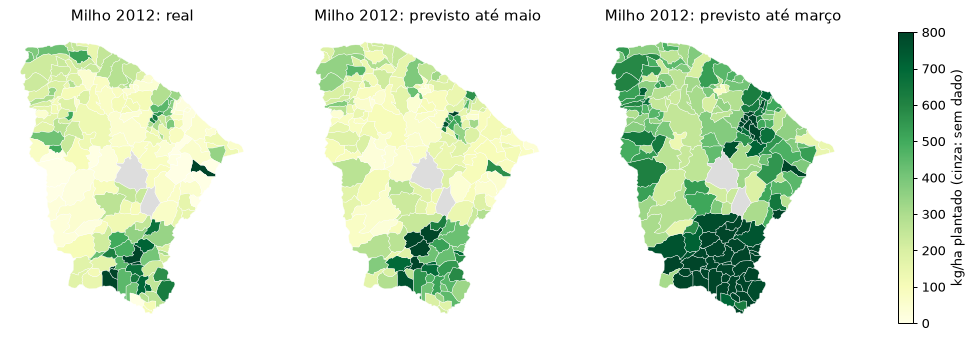
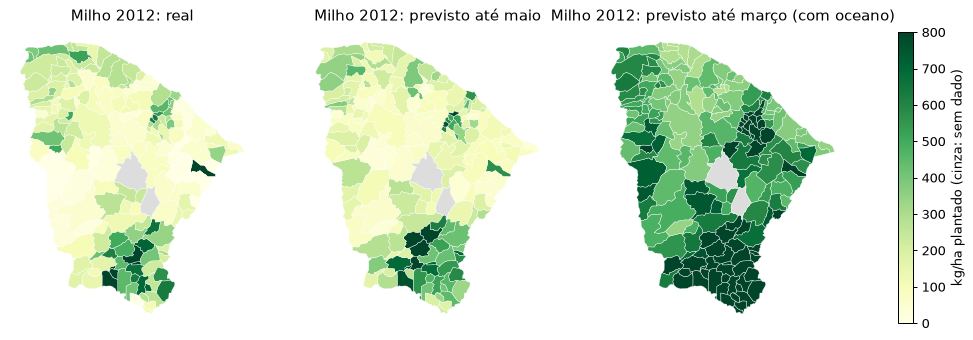
feat(modelo): adiciona indices do oceano e posicao do municipio na previsao ate marco
- ate marco, o erro passa de 1% acima para 3% abaixo da media historica (231 kg/ha) e a precisao ao apontar perda sobe de 51% para 62%
- na quadra completa o oceano nao ajuda (a chuva de abril e maio ja carrega a informacao), entao fica so no cenario de marco
- readme e mapa de 2012 atualizados com o resultado e o limite: correlacao do oceano com o rendimento perto de -0,25

diff --git a/README.md b/README.md
@@ -51,26 +51,32 @@ Erro médio absoluto em kg/ha plantado, 2006–2025:
 |---|---:|---:|---:|
 | Referência: média histórica do município | 121 | 358 | 239 |
 | LightGBM com chuva até março | 125 | 357 | 241 |
+| LightGBM com chuva até março + oceano e posição do município | 120 | 343 | 231 |
 | LightGBM com chuva até maio | 112 | 312 | **212** |
 
 - **Com a chuva até maio, o erro cai 12%** em relação à média histórica. A variável que mais pesa é a chuva da
   quadra relativa ao normal do município.
 - **Perda de 50% ou mais** (critério do Garantia-Safra): 19% dos municípios-ano de teste tiveram. O modelo de maio
   aponta 31% deles e acerta 62% das vezes que aponta.
-- **Até março, a chuva ainda não basta:** o modelo empata com a referência. Em 2012, primeiro ano da grande seca, a
-  falta de chuva só ficou clara em abril e maio:
+- **Até março, só a chuva não basta:** o modelo empata com a referência. Com os índices do oceano (El Niño e
+  Atlântico) e a posição do município, o erro fica 3% abaixo da referência e o acerto ao apontar perda sobe de 51% para
+  62%, mas ele aponta menos municípios (13% das perdas). O sinal do oceano tem o sentido esperado, mas é fraco:
+  correlação em torno de −0,25 com o rendimento do ano, e só há 35 anos para aprender. Na quadra completa, a chuva de
+  abril e maio já carrega essa informação, e o oceano não ajuda.
+- Em 2012, primeiro ano da grande seca, havia La Niña (que costuma trazer chuva) e o Atlântico apontava seca. Os dois
+  sinais se anularam, e a falta de chuva só ficou clara em abril e maio:
 
 ![Milho em 2012: rendimento real e previsto por município](docs/mapa_2012.png)
 
-Ressalva: a forma do alvo foi escolhida olhando os mesmos anos de teste, entre poucas variantes.
+Ressalva: a forma do alvo e as variáveis foram escolhidas olhando os mesmos anos de teste, entre poucas variantes.
 
 Notebook e dados no Kaggle: [notebook](https://www.kaggle.com/code/howluks/previsao-de-safra-de-sequeiro-no-ceara) e
 [dataset](https://www.kaggle.com/datasets/howluks/safra-sequeiro-ceara) (privados por enquanto).
 
 ## Próximos passos
 
-- Previsão antecipada com índices climáticos conhecidos antes da quadra (temperatura do Pacífico e do Atlântico), que
-  a FUNCEME usa na previsão sazonal.
+- Previsão antecipada: verificar se a FUNCEME publica o histórico das suas previsões sazonais de chuva e testá-las
+  como variável, no lugar dos índices brutos do oceano.
 - Publicar o notebook e o dataset no Kaggle.
 
 ## Como rodar
